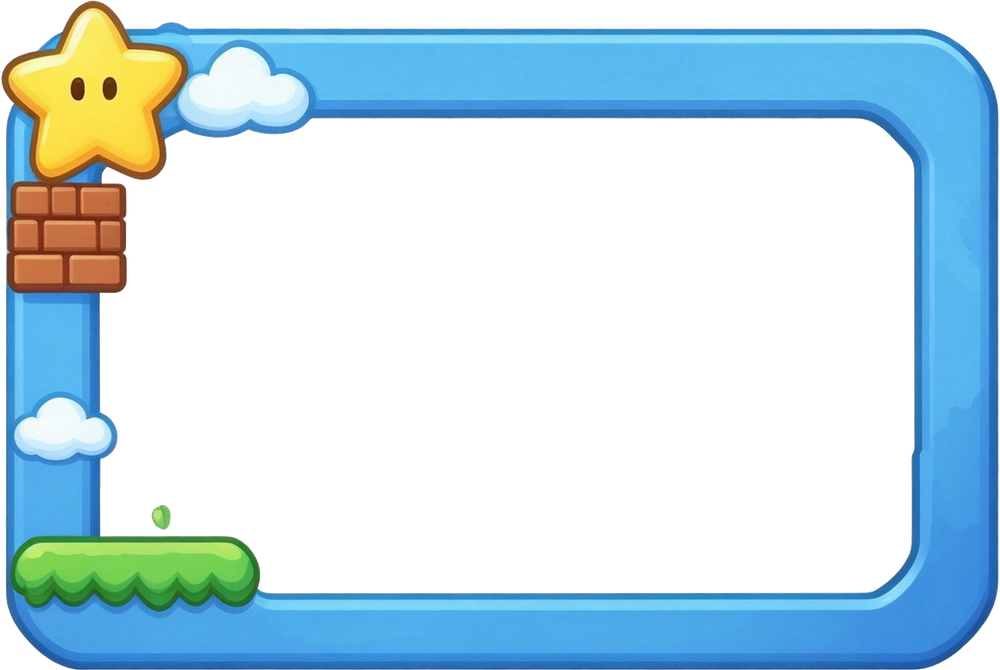
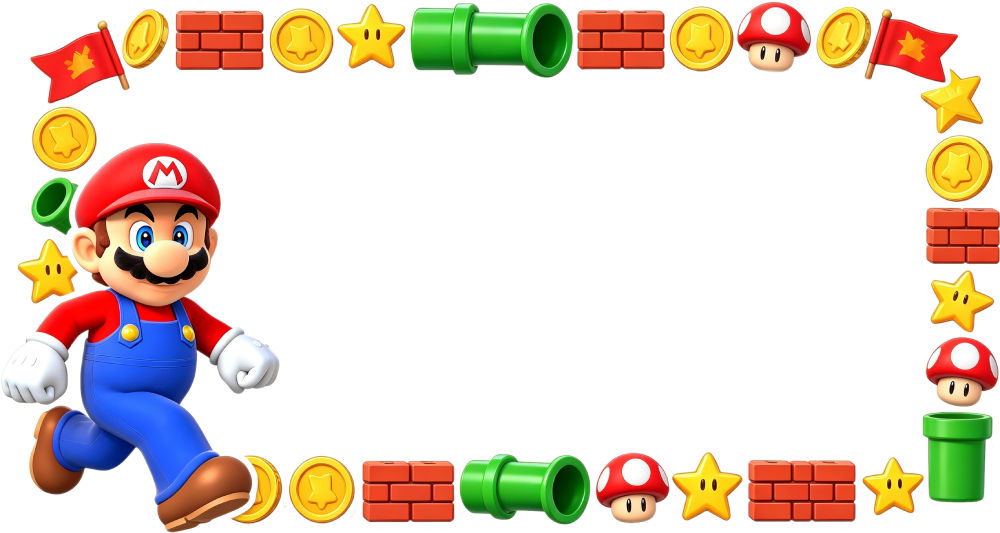
feat(设置页): 打开时重建相框库索引 + 新增 5 个相框，版本 0.2.3
用户可能手动往相框目录里加/删/换 PNG，而相框列表与渲染切片之前
只在启动时读一次 → 新加的相框要重启才看得到、被替换的仍是旧图。

MediaPlayer::refresh_frame_index()：
- 扫描 frame/ 算出「文件名+大小+mtime」指纹
- 指纹与上次一致 → 直接跳过（不做无谓重载）
- 变了 → load_frame() 整体重建（切片缓存从空开始；模型缓存按
  path+mtime+size+版本 判断是否重新分析）
- load_frame() 成功后会同步一次指纹，避免启动后首次打开设置被误判为"变了"

已在 settings::show() 中与媒体目录重扫并列调用（两个都是"用户可能
手动改了外部目录"这一类需求）。

相框库新增 5 个：横-马里奥 简约、竖-我的世界、竖-林克、竖-耀西、竖-花环（共 34 个）。

diff --git a/src/player.rs b/src/player.rs
@@ -12,6 +12,11 @@ use crate::window::monitor_scale;
 use std::cell::{Cell, RefCell};
 use std::rc::Rc;
 
+thread_local! {
+    /// 相框库索引指纹（见 MediaPlayer::refresh_frame_index）
+    static FRAME_INDEX_SIG: RefCell<String> = const { RefCell::new(String::new()) };
+}
+
 pub struct MediaPlayer {
     state: Rc<AppState>,
     lib: Rc<MediaLibrary>,
@@ -540,6 +545,62 @@ impl MediaPlayer {
         crate::debug!("相框外扩 = {grow}%（素材恒铺满内孔）");
     }
 
+    /// 记录当前相框库指纹（load_frame 成功后调用，避免下次打开设置误判为"变了"）
+    fn sync_frame_index_sig() {
+        let dir = crate::config::frame_dir();
+        let mut names: Vec<String> = Vec::new();
+        if let Ok(rd) = std::fs::read_dir(&dir) {
+            for e in rd.flatten() {
+                let p = e.path();
+                if p.extension().and_then(|s| s.to_str()).map(|s| s.eq_ignore_ascii_case("png")) != Some(true) { continue; }
+                let (sz, mt) = match e.metadata() {
+                    Ok(m) => (m.len(), m.modified().ok().and_then(|t| t.duration_since(std::time::UNIX_EPOCH).ok()).map(|d| d.as_secs()).unwrap_or(0)),
+                    Err(_) => (0, 0),
+                };
+                names.push(format!("{}:{sz}:{mt}", p.file_name().unwrap_or_default().to_string_lossy()));
+            }
+        }
+        names.sort();
+        FRAME_INDEX_SIG.with(|s| *s.borrow_mut() = names.join("|"));
+    }
+
+    /// 相框库"索引指纹"：文件名 + 大小 + mtime 的指纹。
+    /// 用来判断用户是否手动增删/替换了相框图片。
+    /// 重建相框库索引：扫描 frame/ 下的 PNG，算出指纹。
+    ///
+    /// 用户可能**手动往相框目录里加/删/换图片**，而相框列表与渲染切片
+    /// 之前只在启动时读一次 → 新加的相框要重启才看得到、被替换的相框仍是旧的。
+    /// 这里在打开设置面板时调用：指纹没变就什么都不做（不白重载），
+    /// 变了就 `load_frame()` 整体重建（切片缓存从空开始，会按
+    /// path+mtime+size+版本 的模型缓存判断是否需要重新分析）。
+    pub fn refresh_frame_index(self: &Rc<Self>) {
+        let dir = crate::config::frame_dir();
+        let mut names: Vec<String> = Vec::new();
+        if let Ok(rd) = std::fs::read_dir(&dir) {
+            for e in rd.flatten() {
+                let p = e.path();
+                if p.extension().and_then(|s| s.to_str()).map(|s| s.eq_ignore_ascii_case("png")) != Some(true) {
+                    continue;
+                }
+                let (sz, mt) = match e.metadata() {
+                    Ok(m) => (m.len(), m.modified().ok().and_then(|t| t.duration_since(std::time::UNIX_EPOCH).ok()).map(|d| d.as_secs()).unwrap_or(0)),
+                    Err(_) => (0, 0),
+                };
+                names.push(format!("{}:{sz}:{mt}", p.file_name().unwrap_or_default().to_string_lossy()));
+            }
+        }
+        names.sort();
+        let sig = names.join("|");
+        let changed = FRAME_INDEX_SIG.with(|s| s.borrow().as_str() != sig);
+        if !changed {
+            crate::debug!("相框库索引无变化（{} 个）", names.len());
+            return;
+        }
+        FRAME_INDEX_SIG.with(|s| *s.borrow_mut() = sig);
+        crate::info!("相框库索引已更新（{} 个），重建相框", names.len());
+        self.load_frame();
+    }
+
     pub fn load_frame(&self) {
         let (enabled, style, legacy, connector) = {
             let cfg = self.state.config.borrow();
@@ -608,6 +669,7 @@ impl MediaPlayer {
                 }
                 *self.frame.borrow_mut() = Some(Rc::new(r));
                 self.refresh_frame();
+                Self::sync_frame_index_sig();
             }
             None => {
                 crate::warn!("相框加载失败：{path}");

diff --git a/src/settings.rs b/src/settings.rs
@@ -91,7 +91,8 @@ pub fn show(state: &Rc<AppState>) {
     // 扫描在后台线程（rescan 是异步的），不阻塞面板显示；
     // 扫完由 after_scan() 刷新当前素材/列表。
     if let Some(player) = state.player.borrow().clone() {
-        player.rescan();
+        player.rescan();                 // 重扫媒体目录（用户可能新加了素材）
+        player.refresh_frame_index();    // 重建相框库索引（用户可能新加了相框图）
     }
     hide(state, "重建");
     let panel = build(state);

diff --git a/CHANGELOG.md b/CHANGELOG.md
@@ -3,6 +3,15 @@
 本项目遵循 [Keep a Changelog](https://keepachangelog.com/zh-CN/1.1.0/)，
 版本号遵循 [语义化版本](https://semver.org/lang/zh-CN/)。
 
+## [0.2.3] - 2026-10-01
+
+### 新增
+- 打开设置面板时**重建相框库索引**：扫描 frame/ 算出"文件名+大小+mtime"指纹，
+  与上次一致就跳过（不做无谓重载），变了就 `load_frame()` 整体重建。
+  用户手动往相框目录**新增/删除/替换**相框图后，不用重启即可在设置里看到并使用。
+  之前相框列表与渲染切片只在启动时读一次。
+- 相框库新增 5 个：横-马里奥 简约、竖-我的世界、竖-林克、竖-耀西、竖-花环（共 34 个）
+
 ## [0.2.2] - 2026-10-01
 
 ### 维护
@@ -72,6 +81,7 @@
 - 菜单项 `Categories` 去掉重复主分类（原值会让它在菜单里出现两次）
 - 消除全部编译警告（0 warning）
 
+[0.2.3]: https://github.com/playGitboy/Omaframe/releases/tag/v0.2.3
 [0.2.2]: https://github.com/playGitboy/Omaframe/releases/tag/v0.2.2
 [0.2.1]: https://github.com/playGitboy/Omaframe/releases/tag/v0.2.1
 [0.2.0]: https://github.com/playGitboy/Omaframe/releases/tag/v0.2.0
